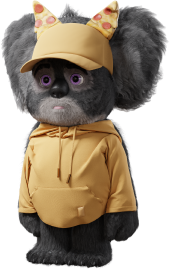
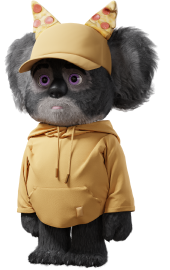
updated: image mask

diff --git a/src/features/landing/learn.tsx b/src/features/landing/learn.tsx
@@ -36,7 +36,7 @@ const AvatarAnimBoard = styled.div`
 `;
 
 const DropShadow = styled.div`
-  filter: drop-shadow(0 6px 0px #000) drop-shadow(0 0px 5px #252525);
+  filter: drop-shadow(0 16px 0px #000);
 `;
 
 const Image = styled.img`
@@ -151,6 +151,28 @@ const CarouselContainer = styled.div`
   margin-right: 90px;
   transition: all 0.2s;
   animation: ${ColorChange} 10s infinite;
+
+  position: relative;
+  z-index: 1;
+
+  &:after {
+    z-index: 1;
+    position: absolute;
+    content: "";
+    top: 1px;
+    bottom: 1px;
+    left: 1px;
+    right: 1px;
+    background: url("carousel/vector.png");
+    background-repeat: no-repeat;
+    background-position-x: -1px;
+
+    @media (max-width: 640px) {
+      background-size: 298px;
+      background-position-x: -1px;
+      background-position-y: -1px;
+    }
+  }
 
   @media (max-width: 1279px) {
     margin: 0;

diff --git a/src/pages/home.tsx b/src/pages/home.tsx
@@ -9,33 +9,8 @@ import {
 } from "@features/landing";
 import { Library } from "@features/landing/library";
 import { Team } from "@features/landing/team";
-// import { useEffect, useState } from "react";
-
-// const fetchApiData = () => {
-//   console.log("this----------------");
-//   return new Promise((resolve) => {
-//     setTimeout(() => {
-//       resolve("Data loaded!");
-//     }, 2000); // Simulating a 2-second delay for data fetching
-//   });
-// };
 
 export default function Home() {
-  // const [data, setData] = useState<number>(0);
-  // useEffect(() => {
-  //   // Your asynchronous operation that returns a Promise
-  //   const fetchData = async () => {
-  //     await fetchApiData();
-  //     setData(1);
-  //   };
-
-  //   fetchData();
-  // }, []);
-
-  // if (data === 0) {
-  //   return <></>;
-  // }
-
   return (
     <>
       <Banner />

diff --git a/src/features/landing/welcome.tsx b/src/features/landing/welcome.tsx
@@ -57,6 +57,8 @@ const Content = styled.h3`
 
 export const Image = styled.img`
   height: 94px;
+  position: absolute;
+  left: 0;
 
   @media only screen and (max-width: 640px) {
     display: none;
@@ -84,6 +86,16 @@ export const TitleImage = styled.img`
   }
 `;
 
+export const Span = styled.span`
+  position: relative;
+  width: 60px;
+  padding: 0 30px;
+
+  @media only screen and (max-width: 640px) {
+    padding: 0;
+  }
+`;
+
 export const Welcome = () => {
   return (
     <MainContainer>
@@ -91,7 +103,10 @@ export const Welcome = () => {
         <Group>
           <TitleImage src={icon} />
           <Title>
-            Say hello to the Kiki <Image src={icon} />
+            Say hello to the Kiki{" "}
+            <Span>
+              <Image src={icon} />
+            </Span>
             Koalas
           </Title>
         </Group>

diff --git a/src/features/carousel/carousel.tsx b/src/features/carousel/carousel.tsx
@@ -18,7 +18,7 @@ const MainContainer = styled.div`
 `;
 
 const TextDiv = styled.div`
-  padding: 48px 0;
+  padding: 39px 0;
 
   @media (max-width: 640px) {
     padding: 32px 0;
@@ -32,12 +32,13 @@ const Text = styled.h2`
   font-size: 60px;
   font-style: normal;
   font-weight: 400;
-  line-height: normal;
+  line-height: 50px;
   text-transform: uppercase;
   margin: 0;
 
   @media (max-width: 640px) {
     font-size: 32px;
+    line-height: 22px;
   }
 `;
 
@@ -107,7 +108,7 @@ export const Carousel = ({ text }: { text: string }) => {
   return (
     <MainContainer>
       <TextDiv>
-        <ParallaxText baseVelocity={-1}>
+        <ParallaxText baseVelocity={-0.5}>
           <Text>{text}</Text>
         </ParallaxText>
       </TextDiv>

diff --git a/src/features/landing/support.tsx b/src/features/landing/support.tsx
@@ -1,5 +1,5 @@
 import { styled } from "styled-components";
-import { Group, Image, Title, TitleImage } from "./welcome";
+import { Group, Image, Span, Title, TitleImage } from "./welcome";
 import icon from "../../assets/img/main/black_icon.png";
 import { Subtitle } from "./learn";
 
@@ -42,7 +42,10 @@ export const Support = () => {
       <UGroup>
         <TitleImage src={icon} />
         <Title>
-          Supporting <Image src={icon} />
+          Supporting{" "}
+          <Span>
+            <Image src={icon} />
+          </Span>
           Koala konservation
         </Title>
       </UGroup>

diff --git a/src/features/landing/connect.tsx b/src/features/landing/connect.tsx
@@ -1,5 +1,5 @@
 import { styled } from "styled-components";
-import { Group, Image, Title, TitleImage } from "./welcome";
+import { Group, Image, Span, Title, TitleImage } from "./welcome";
 import icon from "../../assets/img/main/black_icon.png";
 import { SocialCard } from "./socialCard";
 
@@ -45,7 +45,10 @@ export const Connect = () => {
       <UGroup>
         <TitleImage src={icon} />
         <Title>
-          Konnect <Image src={icon} />
+          Konnect{" "}
+          <Span>
+            <Image src={icon} />
+          </Span>
           with us
         </Title>
       </UGroup>

diff --git a/src/features/faq/item.tsx b/src/features/faq/item.tsx
@@ -80,8 +80,7 @@ const ActiveButton = styled.div<{ $active: boolean }>`
     font-family: BarricadaW01-Regular;
     font-size: 100px;
     font-style: normal;
-    font-weight: 100;
-    line-height: 40px;
+    line-height: 10px;
     margin: 0;
     transform: scale(1.5, 1);
 
@@ -97,8 +96,7 @@ const ActiveButton = styled.div<{ $active: boolean }>`
     css`
       h2 {
         &:last-child {
-          transform: rotate(90deg) scale(1.5, 1) translateY(-2px)
-            translateX(1px);
+          transform: rotate(90deg) scale(1.5, 1);
         }
       }
     `}

diff --git a/src/pages/pages-data.tsx b/src/pages/pages-data.tsx
@@ -1,4 +1,5 @@
 import { routerType } from "../utilities";
+import Error from "./404";
 import Art from "./art";
 import FaqPage from "./faq";
 import Home from "./home";
@@ -9,6 +10,7 @@ const pagesData: routerType[] = [
   { path: "team", element: <Team />, title: "" },
   { path: "art", element: <Art />, title: "" },
   { path: "faq", element: <FaqPage />, title: "" },
+  { path: "error", element: <Error />, title: "" },
 ];
 
 export default pagesData;

diff --git a/src/pages/404.tsx b/src/pages/404.tsx
@@ -1,0 +1,22 @@
+import { styled } from "styled-components";
+
+const MainContainer = styled.div`
+  max-width: 100vw;
+  display: flex;
+  justify-content: center;
+  background-color: #f7f7f7;
+  min-height: calc(100vh - 448px);
+`;
+
+const Container = styled.div`
+  max-width: 1440px;
+  padding: 166px 180px;
+`;
+
+export default function Error() {
+  return (
+    <MainContainer>
+      <Container></Container>
+    </MainContainer>
+  );
+}

diff --git a/index.html b/index.html
@@ -2,7 +2,7 @@
 <html lang="en">
   <head>
     <meta charset="UTF-8" />
-    <link rel="icon" type="image/svg+xml" href="/vite.svg" />
+    <link rel="icon" type="image/svg+xml" href="/icon.svg" />
     <meta name="viewport" content="width=device-width, initial-scale=1.0" />
     <link rel="preconnect" href="https://fonts.googleapis.com" />
     <link rel="preconnect" href="https://fonts.gstatic.com" crossorigin />

diff --git a/src/features/team/collective.tsx b/src/features/team/collective.tsx
@@ -58,9 +58,8 @@ const MemberList = [
   },
   {
     role: "cto",
-    name: "Harri",
-    explain:
-      "Solution architect, Cardano developer, open source lover, previously work at MLabs.",
+    name: "Felix",
+    explain: "Solution architect, Cardano developer, open source lover.",
     twitter: "h",
     color: "#CAF2FF",
     avatar: "members/3.png",

diff --git a/src/features/ui/header.tsx b/src/features/ui/header.tsx
@@ -308,7 +308,12 @@ export function Header() {
   return (
     <MainContainer>
       <HeaderContainer>
-        <div onClick={() => navigate("/")}>
+        <div
+          onClick={() => {
+            navigate("/");
+            setActiveMenu(false);
+          }}
+        >
           <Button style="Logo">
             <Logo>
               <LogoIcon />
